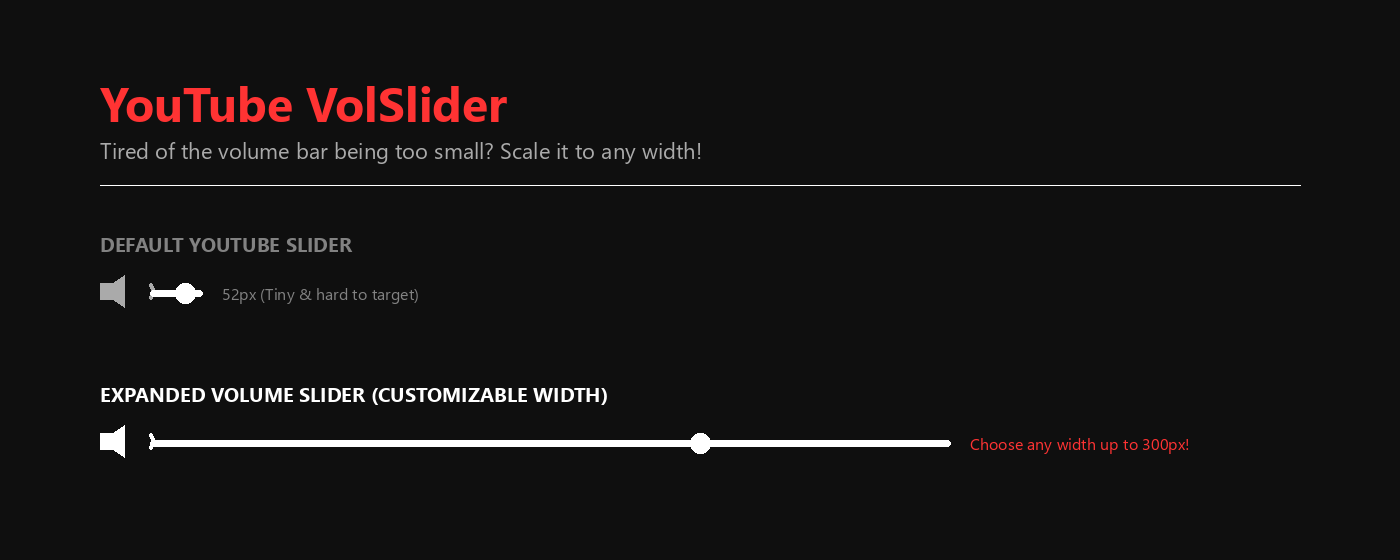
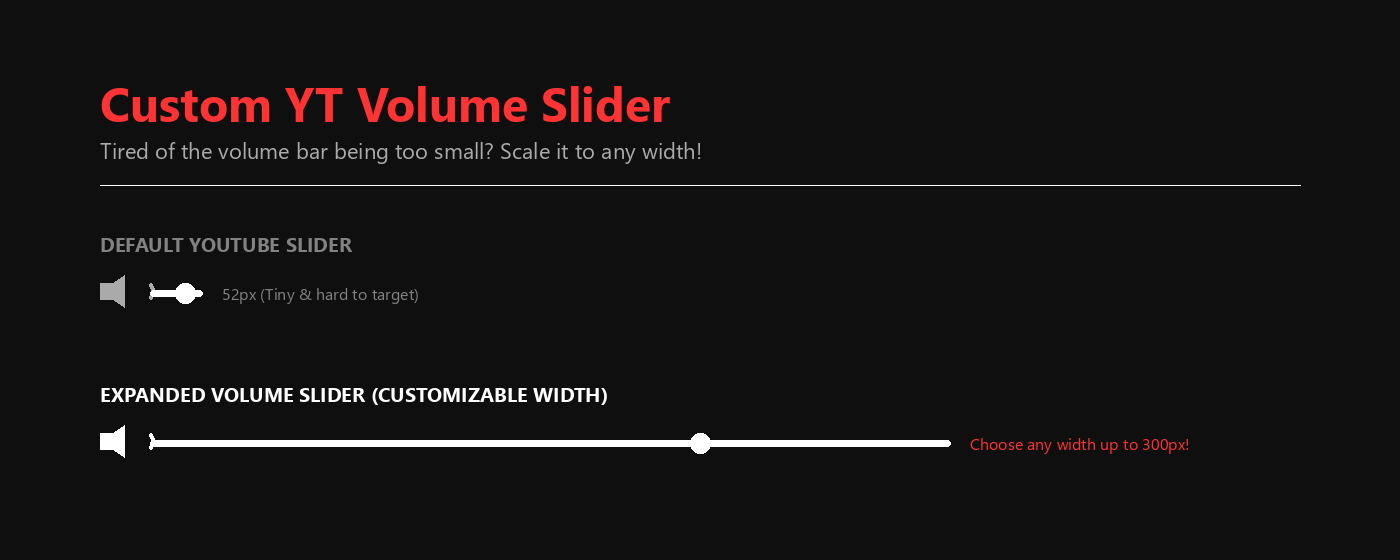
Rename extension to Custom YT Volume Slider throughout popup UI, manifests, promotional assets, and CWS documents

Changed region(s): [[0.0614, 0.1518, 0.4914, 0.2429]]

diff --git a/popup.html b/popup.html
@@ -16,7 +16,7 @@
         <svg viewBox="0 0 24 24" width="22" height="22" class="logo-icon">
           <path d="M12 2C6.48 2 2 6.48 2 12s4.48 10 10 10 10-4.48 10-10S17.52 2 12 2zm-1 14H9v-4h2v4zm0-6H9V8h2v2zm4 6h-2V8h2v8z" fill="currentColor"/>
         </svg>
-        <span class="logo-text">YouTube VolSlider</span>
+        <span class="logo-text">Custom YT VolSlider</span>
       </div>
       <div class="version">v1.0</div>
     </header>

diff --git a/draw_promo.py b/draw_promo.py
@@ -48,7 +48,7 @@ def generate_small_promo():
         font_title = font_label = font_sub = ImageFont.load_default()
 
     # Header
-    draw.text((20, 20), "YouTube VolSlider", font=font_title, fill=(255, 51, 51))  # Red accent
+    draw.text((20, 20), "Custom YT VolSlider", font=font_title, fill=(255, 51, 51))  # Red accent
     draw.text((20, 40), "Resize YouTube's volume controls", font=font_sub, fill=(170, 170, 170))
     
     # --- DEFAULT SLIDER ---
@@ -100,7 +100,7 @@ def generate_marquee_promo():
         font_title = font_subtitle = font_label = font_val = ImageFont.load_default()
 
     # Header Title
-    draw.text((100, 70), "YouTube VolSlider", font=font_title, fill=(255, 51, 51))
+    draw.text((100, 70), "Custom YT Volume Slider", font=font_title, fill=(255, 51, 51))
     draw.text((100, 135), "Tired of the volume bar being too small? Scale it to any width!", font=font_subtitle, fill=(170, 170, 170))
     
     # Draw horizontal divider

diff --git a/chrome_web_store_submission_guide.md b/chrome_web_store_submission_guide.md
@@ -1,6 +1,6 @@
-# Chrome Web Store Submission Guide: YouTube VolSlider
+# Chrome Web Store Submission Guide: Custom YT Volume Slider
 
-This document contains all the necessary text, copy, justifications, and settings required to submit the **YouTube VolSlider** extension to the Chrome Web Store and ensure a quick approval.
+This document contains all the necessary text, copy, justifications, and settings required to submit the **Custom YT Volume Slider** extension to the Chrome Web Store and ensure a quick approval.
 
 ---
 
@@ -8,7 +8,7 @@ This document contains all the necessary text, copy, justifications, and setting
 
 | Field | Value / Description | Character Limit (Used) |
 | :--- | :--- | :--- |
-| **Title** | `YouTube VolSlider - Custom Volume Slider Width` | 45 / 45 chars |
+| **Title** | `Custom YT Volume Slider` | 23 / 45 chars |
 | **Short Description** | `Tired of the volume bar being too small on YouTube? Scale it up or down to whatever width you want (50px to 300px) instantly!` | 124 / 132 chars |
 | **Category** | `Productivity` OR `Accessibility` *(Accessibility is recommended as it helps users with fine motor skills who find the tiny 52px slider hard to control)* | N/A |
 | **Search Keywords** | `youtube volume, volume slider, youtube width, volume bar, customize youtube` | 5 keywords max |
@@ -20,7 +20,7 @@ Tired of the volume bar being too small on YouTube?? Use this extension to scale
 
 YouTube's default volume slider is tiny (only 52px wide) and hidden behind a hover state. This makes it difficult to adjust the volume precisely, especially for users on high-resolution monitors or those who find the default controls too small.
 
-YouTube VolSlider replaces the native volume slider with a fully customizable, premium interface that matches YouTube's sleek dark aesthetic. 
+Custom YT Volume Slider replaces the native volume slider with a fully customizable, premium interface that matches YouTube's sleek dark aesthetic. 
 
 🚀 KEY FEATURES:
 • Expand the Width: Choose any width from 50px up to 300px for your volume bar.
@@ -31,7 +31,7 @@ YouTube VolSlider replaces the native volume slider with a fully customizable, p
 • Lightweight & Safe: No third-party bundlers, minimal CPU usage, and zero data tracking.
 
 🔒 PRIVACY FIRST:
-We believe in absolute privacy. YouTube VolSlider works entirely on your local machine:
+We believe in absolute privacy. Custom YT Volume Slider works entirely on your local machine:
 • No tracking code.
 • No external network requests.
 • Settings are stored locally using chrome.storage.local.
@@ -71,7 +71,7 @@ Providing clear instructions to the Chrome Web Store testers prevents rejections
 
 Paste this into the **Instructions for Reviewers** text field:
 ```text
-YouTube VolSlider replaces the default YouTube volume slider with a custom-width version. 
+Custom YT Volume Slider replaces the default YouTube volume slider with a custom-width version. 
 
 To test the extension:
 1. Open any video on YouTube (e.g., https://www.youtube.com/watch?v=dQw4w9WgXcQ).
@@ -110,4 +110,4 @@ The following files are located in your extension folder:
 
 ### C. Promotional Tile (Highly Recommended)
 - **Dimensions**: **440x280** pixels.
-- **Design**: Keep it simple and focused. Show the glowing red logo icon and the name "YouTube VolSlider" on a dark background. This is displayed when your extension is featured in the store.
+- **Design**: Keep it simple and focused. Show the glowing red logo icon and the name "Custom YT Volume Slider" on a dark background. This is displayed when your extension is featured in the store.

diff --git a/PRIVACY_POLICY.md b/PRIVACY_POLICY.md
@@ -1,8 +1,8 @@
-# Privacy Policy for YouTube VolSlider
+# Privacy Policy for Custom YT Volume Slider
 
 **Last Updated: June 13, 2026**
 
-This privacy policy governs your use of the Chrome Extension **YouTube VolSlider** ("the Extension"). 
+This privacy policy governs your use of the Chrome Extension **Custom YT Volume Slider** ("the Extension"). 
 
 ### 1. Data Collection and Usage
 The Extension does not collect, store, or transmit any personally identifiable information, browsing history, user activity, or personal data. 